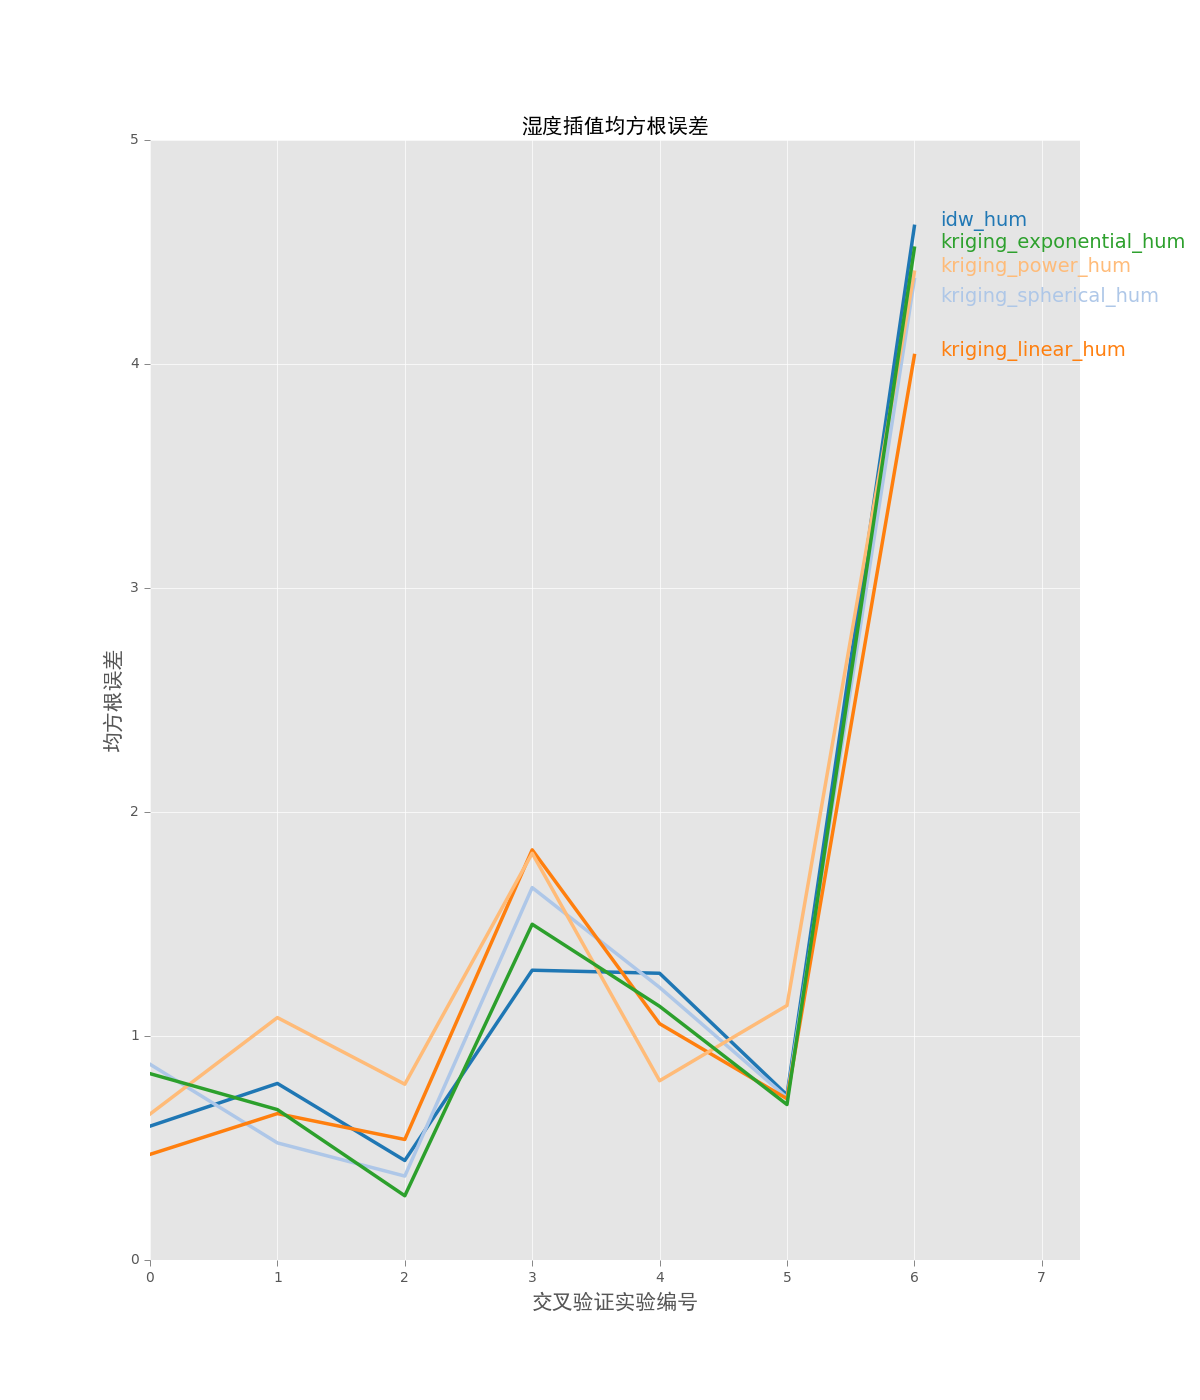
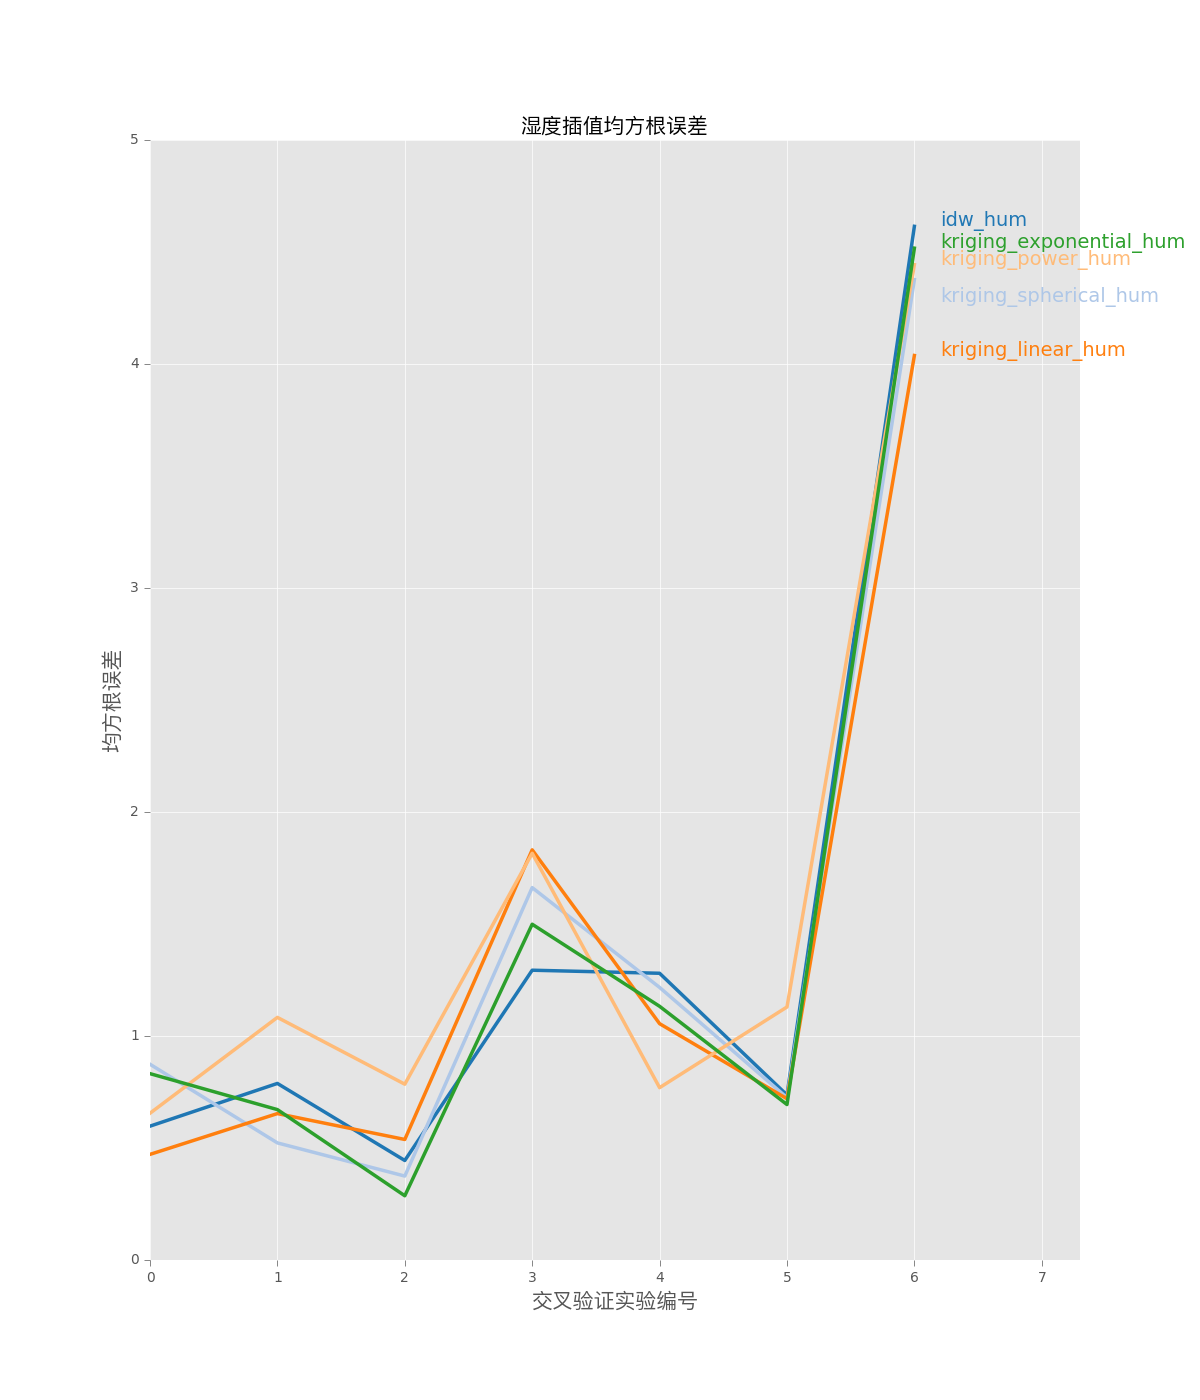
绘图时支持mac中文字体

diff --git a/layout_optimization/draw/draw_pearson.py b/layout_optimization/draw/draw_pearson.py
@@ -2,6 +2,7 @@
 
 import matplotlib.pyplot as plt
 import matplotlib as mpl
+import platform
 import csv
 
 class DrawPearson:
@@ -40,7 +41,7 @@ class DrawPearson:
 
         y_offsets = {'idw_temp':0.5, 'kriging_spherical_temp':0.3, 'kriging_linear_temp':0.5,
                         'kriging_power_temp':0.6, 'kriging_gaussian_temp':0.5, 'kriging_exponential_temp':0.4,
-                        'idw_hum':0.5, 'kriging_spherical_hum':0.4, 'kriging_linear_hum':0.6,
+                        'idw_hum':0.5, 'kriging_spherical_hum':0.4, 'kriging_linear_hum':0.35,
                         'kriging_power_hum':0.5, 'kriging_gaussian_hum':0.5, 'kriging_exponential_hum':0.55}
 
         file_data = self.get_data(temp_hum)
@@ -56,8 +57,11 @@ class DrawPearson:
         ax.get_xaxis().tick_bottom()
         ax.get_yaxis().tick_left()
 
-        
-        zhfont = mpl.font_manager.FontProperties(fname='C:/Windows/Fonts/simhei.ttf')
+        sys_str = platform.system()
+        if sys_str == 'Darwin':
+            zhfont = mpl.font_manager.FontProperties(fname='/System/Library/Fonts/PingFang.ttc')
+        elif sys_str == 'Windows':
+            zhfont = mpl.font_manager.FontProperties(fname='C:/Windows/Fonts/simhei.ttf')
         plt.xlabel(u'交叉验证实验编号', fontproperties = zhfont, fontsize = 15)
         plt.ylabel(u'pearson相关系数', fontproperties = zhfont, fontsize = 15)
 

diff --git a/layout_optimization/draw/draw_average_pearson.py b/layout_optimization/draw/draw_average_pearson.py
@@ -2,6 +2,7 @@
 
 import matplotlib.pyplot as plt
 import matplotlib as mpl
+import platform
 import csv
 
 class DrawAveragePearson:
@@ -51,8 +52,12 @@ class DrawAveragePearson:
         ax.get_xaxis().tick_bottom()
         ax.get_yaxis().tick_left()
 
-        
-        zhfont = mpl.font_manager.FontProperties(fname='C:/Windows/Fonts/simhei.ttf')
+
+        sys_str = platform.system()
+        if sys_str == 'Darwin':
+            zhfont = mpl.font_manager.FontProperties(fname='/System/Library/Fonts/PingFang.ttc')
+        elif sys_str == 'Windows':
+            zhfont = mpl.font_manager.FontProperties(fname='C:/Windows/Fonts/simhei.ttf')        
         plt.xlabel(u'插值方法或者模型类型', fontproperties = zhfont, fontsize = 15)
         plt.ylabel(u'pearson相关系数均值', fontproperties = zhfont, fontsize = 15)
 

diff --git a/layout_optimization/draw/draw_average_mean_error.py b/layout_optimization/draw/draw_average_mean_error.py
@@ -2,6 +2,7 @@
 
 import matplotlib.pyplot as plt
 import matplotlib as mpl
+import platform
 import csv
 
 class DrawAverageMeanError:
@@ -50,8 +51,12 @@ class DrawAverageMeanError:
         ax.get_xaxis().tick_bottom()
         ax.get_yaxis().tick_left()
 
-        
-        zhfont = mpl.font_manager.FontProperties(fname='C:/Windows/Fonts/simhei.ttf')
+
+        sys_str = platform.system()
+        if sys_str == 'Darwin':
+            zhfont = mpl.font_manager.FontProperties(fname='/System/Library/Fonts/PingFang.ttc')
+        elif sys_str == 'Windows':
+            zhfont = mpl.font_manager.FontProperties(fname='C:/Windows/Fonts/simhei.ttf')        
         plt.xlabel(u'插值方法或者模型类型', fontproperties = zhfont, fontsize = 15)
         plt.ylabel(u'平均误差均值', fontproperties = zhfont, fontsize = 15)
 

diff --git a/layout_optimization/draw/draw_rmse.py b/layout_optimization/draw/draw_rmse.py
@@ -2,6 +2,7 @@
 
 import matplotlib.pyplot as plt
 import matplotlib as mpl
+import platform
 import csv
 
 class DrawRMSE:
@@ -56,8 +57,12 @@ class DrawRMSE:
         ax.get_xaxis().tick_bottom()
         ax.get_yaxis().tick_left()
 
-        
-        zhfont = mpl.font_manager.FontProperties(fname='C:/Windows/Fonts/simhei.ttf')
+
+        sys_str = platform.system()
+        if sys_str == 'Darwin':
+            zhfont = mpl.font_manager.FontProperties(fname='/System/Library/Fonts/PingFang.ttc')
+        elif sys_str == 'Windows':
+            zhfont = mpl.font_manager.FontProperties(fname='C:/Windows/Fonts/simhei.ttf')        
         plt.xlabel(u'交叉验证实验编号', fontproperties = zhfont, fontsize = 15)
         plt.ylabel(u'均方根误差', fontproperties = zhfont, fontsize = 15)
 

diff --git a/layout_optimization/draw/draw_mean_error.py b/layout_optimization/draw/draw_mean_error.py
@@ -2,6 +2,7 @@
 
 import matplotlib.pyplot as plt
 import matplotlib as mpl
+import platform
 import csv
 
 class DrawMeanError:
@@ -56,8 +57,12 @@ class DrawMeanError:
         ax.get_xaxis().tick_bottom()
         ax.get_yaxis().tick_left()
 
-        
-        zhfont = mpl.font_manager.FontProperties(fname='C:/Windows/Fonts/simhei.ttf')
+        sys_str = platform.system()
+        if sys_str == 'Darwin':
+            zhfont = mpl.font_manager.FontProperties(fname='/System/Library/Fonts/PingFang.ttc')
+        elif sys_str == 'Windows':
+            zhfont = mpl.font_manager.FontProperties(fname='C:/Windows/Fonts/simhei.ttf')
+
         plt.xlabel(u'交叉验证实验编号', fontproperties = zhfont, fontsize = 15)
         plt.ylabel(u'平均误差', fontproperties = zhfont, fontsize = 15)
 

diff --git a/layout_optimization/draw/draw_average_rmse.py b/layout_optimization/draw/draw_average_rmse.py
@@ -2,6 +2,7 @@
 
 import matplotlib.pyplot as plt
 import matplotlib as mpl
+import platform
 import csv
 
 class DrawAverageRMSE:
@@ -52,7 +53,11 @@ class DrawAverageRMSE:
         ax.get_yaxis().tick_left()
 
         
-        zhfont = mpl.font_manager.FontProperties(fname='C:/Windows/Fonts/simhei.ttf')
+        sys_str = platform.system()
+        if sys_str == 'Darwin':
+            zhfont = mpl.font_manager.FontProperties(fname='/System/Library/Fonts/PingFang.ttc')
+        elif sys_str == 'Windows':
+            zhfont = mpl.font_manager.FontProperties(fname='C:/Windows/Fonts/simhei.ttf')
         plt.xlabel(u'插值方法或者模型类型', fontproperties = zhfont, fontsize = 15)
         plt.ylabel(u'均方根误差均值', fontproperties = zhfont, fontsize = 15)
 
